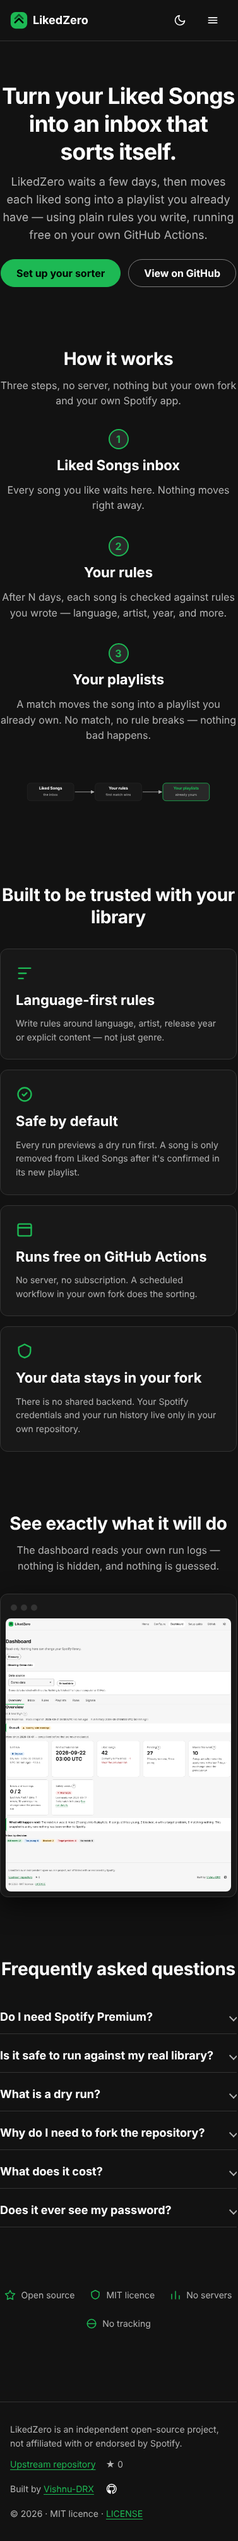
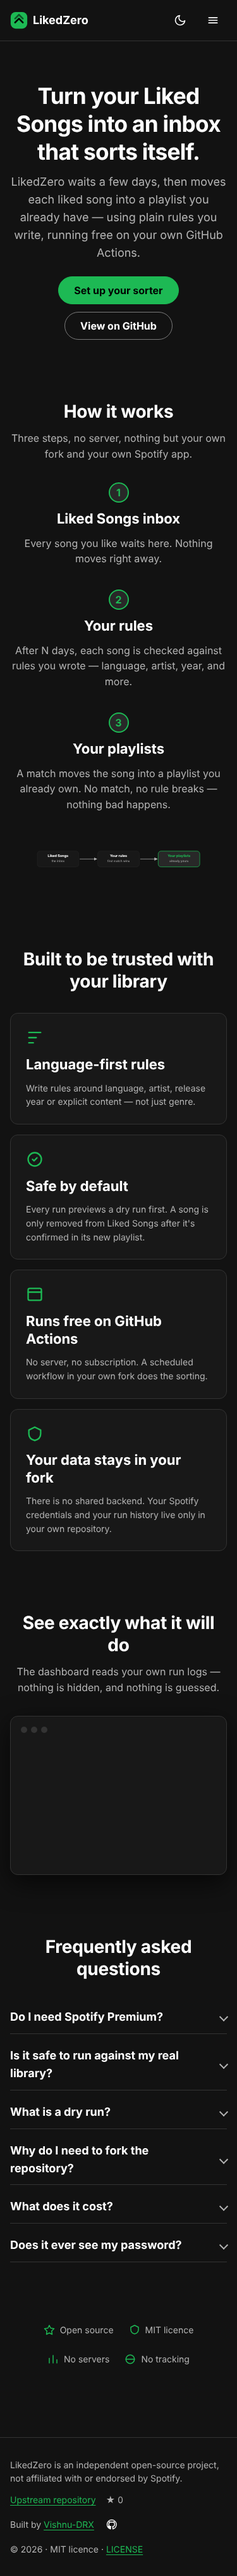
Fix cut-off Setup guide, cramped FAQ and dashboard on mobile (#7)
* Fix clipped Setup guide and edge-to-edge Home text on phones

Setup step cards grew to their code blocks' width (grid 1fr = min-content) and body overflow-x: clip hid the
overflow. .section/.hero padding shorthand zeroed the container's side gutters, so the FAQ touched the screen
edge. Use minmax(0, 1fr), wrap code on phones, pad block-only, and add an e2e check that measures real boxes.

Claude-Session: https://claude.ai/code/session_015FptCFJ6vCY2WqNvsxQPcr

* Fix dashboard on phones: side gutters, readable card rows, all six tabs visible

main.wrap's padding shorthand zeroed the side gutters, card-layout cells split multi-part values into narrow flex
columns, and the tab strip cut off the last tabs. Add an e2e check across every tab at 360/390/430 px.

Claude-Session: https://claude.ai/code/session_015FptCFJ6vCY2WqNvsxQPcr

* Give dashboard tabs more headroom at 360 px for wider fonts

CI's fallback font is wider than the local one, so the six tabs overflowed by 7 px at 360 px.

Claude-Session: https://claude.ai/code/session_015FptCFJ6vCY2WqNvsxQPcr

---------

diff --git a/docs/dashboard/dashboard.css b/docs/dashboard/dashboard.css
@@ -9,7 +9,7 @@
 
 /* ------------------------------------------------------------ page layout */
 .wrap { max-width: var(--content-max); margin: 0 auto; padding: 0 var(--space-4); }
-main.wrap { padding: var(--space-5) 0 var(--space-7); min-width: 0; }
+main.wrap { padding-block: var(--space-5) var(--space-7); min-width: 0; }
 body { overflow-wrap: anywhere; } /* narrow-screen safety: a long song/artist name must not force horizontal scroll */
 
 .page-title { padding: var(--space-5) 0 var(--space-2); }
@@ -101,18 +101,22 @@ tr.row-warn td:first-child { box-shadow: inset 4px 0 0 var(--color-warning); }
 .result-count { font-size: var(--text-sm); color: var(--color-text-secondary); margin: 0 0 var(--space-2); }
 
 @media (max-width: 47.99rem) {
+  /* all six tabs visible at phone width instead of a half-cut scrolling strip */
+  .tabs ul { gap: 0; }
+  .tabs a { flex: 1 1 auto; justify-content: center; padding: 0 var(--space-2); font-size: var(--text-sm); }
+  @media (max-width: 30rem) { .tabs a { padding: 0 6px; font-size: 0.8125rem; } }
+  @media (max-width: 24rem) { .tabs a { padding: 0 3px; font-size: 0.75rem; } }
   .stack thead { position: absolute; width: 1px; height: 1px; overflow: hidden; clip: rect(0 0 0 0); }
   .stack, .stack tbody, .stack tr, .stack td { display: block; width: 100%; }
   .stack tr { background: var(--color-surface); border: 1px solid var(--color-border); border-radius: var(--radius-lg); margin: 0 0 var(--space-3); padding: var(--space-2) var(--space-3); }
-  .stack td { display: flex; justify-content: space-between; gap: var(--space-4); border: 0; padding: var(--space-1) 0; text-align: right; }
-  .stack td::before { content: attr(data-label); flex: none; max-width: 45%; text-align: left; color: var(--color-text-secondary); font-weight: var(--weight-medium); }
-  .stack td.cell-main { display: block; text-align: left; font-size: var(--text-md); }
+  /* Label in a fixed left column, value (which may be several inline pieces: badge + text, code + note) flowing
+     in the right column. A flex row split such cells into narrow side-by-side fragments on phones. */
+  .stack td { position: relative; display: block; border: 0; padding: var(--space-1) 0 var(--space-1) 40%; text-align: left; min-height: 1.75rem; overflow-wrap: anywhere; }
+  .stack td::before { content: attr(data-label); position: absolute; left: 0; top: var(--space-1); width: 36%; color: var(--color-text-secondary); font-weight: var(--weight-medium); overflow-wrap: normal; hyphens: auto; }
+  .stack td.num { text-align: left; }
+  .stack td.cell-main { padding-left: 0; font-size: var(--text-md); }
   .stack td.cell-main::before { display: none; }
-  /* Let long values (badges, signal lists) wrap inside the card instead of pushing it past the screen edge;
-     wider fallback fonts (e.g. DejaVu Sans on Linux) otherwise overflow 375 px by a few pixels. */
-  .stack td > * { min-width: 0; overflow-wrap: anywhere; }
-  .stack td .badge { white-space: normal; }
-  .stack td.num { text-align: right; }
+  .stack td .badge { white-space: normal; max-width: 100%; }
   .stack tr.row-bad, .stack tr.row-warn { border-left-width: 4px; }
   .stack tr.row-bad { border-left-color: var(--color-danger); }
   .stack tr.row-warn { border-left-color: var(--color-warning); }

diff --git a/docs/assets/site.css b/docs/assets/site.css
@@ -42,14 +42,14 @@
 .site-footer-copy { margin: 0; }
 
 /* ------------------------------------------------------------ hero */
-.hero { padding: var(--space-8) 0 var(--space-7); text-align: center; }
+.hero { padding-block: var(--space-8) var(--space-7); text-align: center; }
 .hero-inner { max-width: 44rem; margin: 0 auto; }
 .hero h1 { font-size: clamp(2.2rem, 6vw, var(--text-3xl)); }
 .hero-sub { font-size: var(--text-lg); color: var(--color-text-secondary); margin: 0 0 var(--space-5); }
 .hero-cta { display: flex; flex-wrap: wrap; justify-content: center; gap: var(--space-3); }
 
 /* ------------------------------------------------------------ generic page sections */
-.section { padding: var(--space-7) 0; }
+.section { padding-block: var(--space-7); } /* block only: .section.container must keep its side gutters */
 .section-head { max-width: 40rem; margin: 0 auto var(--space-6); text-align: center; }
 .section-head p { color: var(--color-text-secondary); margin: 0; }
 
@@ -79,12 +79,13 @@
 
 /* setup guide */
 .setup-steps { display: flex; flex-direction: column; gap: var(--space-5); counter-reset: step; }
-.setup-step { display: grid; grid-template-columns: 40px 1fr; gap: var(--space-4); }
+.setup-step { display: grid; grid-template-columns: 40px minmax(0, 1fr); gap: var(--space-4); }
+.setup-step > .card { min-width: 0; }
 .setup-step-num { counter-increment: step; display: inline-grid; place-content: center; width: 40px; height: 40px; border-radius: 50%; background: var(--color-elevated); border: 2px solid var(--color-accent); color: var(--color-accent-text); font-weight: var(--weight-bold); }
 .setup-step-num::before { content: counter(step); }
 .setup-check { display: flex; gap: var(--space-2); align-items: flex-start; }
 .setup-check .icon { color: var(--color-accent-text); flex: none; margin-top: 2px; }
-@media (max-width: 560px) { .setup-step { grid-template-columns: 1fr; } .setup-step-num { display: none; } }
+@media (max-width: 560px) { .code pre { white-space: pre-wrap; overflow-wrap: anywhere; } .setup-step { grid-template-columns: minmax(0, 1fr); } .setup-step > .card { padding: var(--space-4); } .setup-step-num { display: none; } }
 
 /* 404 */
 .notfound { text-align: center; padding: var(--space-8) 0; }

diff --git a/tests/e2e/test_site.py b/tests/e2e/test_site.py
@@ -116,6 +116,33 @@ def test_page_loads_cleanly(site_page, site, page_name, path, width):
     assert not errors, f"{page_name}: {errors}"
 
 
+# `body { overflow-x: clip }` hides sideways overflow from scrollWidth, so the check above can pass while content is
+# cut off. Measure the actual boxes instead, at real phone widths.
+@pytest.mark.parametrize("page_name,path", [("home", "index.html"), ("setup", "setup/")])
+@pytest.mark.parametrize("width", [360, 390, 430])
+def test_mobile_content_not_clipped_and_has_gutters(site_page, site, page_name, path, width):
+    page, _ = site_page(width=width, height=900)
+    page.goto(site + path)
+    page.wait_for_load_state("networkidle")
+    page.evaluate("document.querySelectorAll('details').forEach(d => d.open = true)")
+    bad = page.evaluate("""() => {
+        const vw = document.documentElement.clientWidth, out = [];
+        document.querySelectorAll('main *').forEach(e => {
+            if (e.closest('svg') || getComputedStyle(e).position === 'fixed') return;
+            const r = e.getBoundingClientRect();
+            if (r.width && (r.right > vw + 1 || r.left < -1)) out.push(e.tagName + '.' + e.className + ' ' + Math.round(r.left) + '..' + Math.round(r.right));
+        });
+        return out;
+    }""")
+    assert not bad, f"{page_name} at {width}px: boxes outside the viewport: {bad[:5]}"
+    # prose must not touch the screen edge (FAQ answers / step cards keep a gutter)
+    edge = page.evaluate("""() => [...document.querySelectorAll('main p, main summary, main h1, main h2')]
+        .filter(e => e.getBoundingClientRect().width)
+        .map(e => Math.min(e.getBoundingClientRect().left, document.documentElement.clientWidth - e.getBoundingClientRect().right))
+        .reduce((m, v) => Math.min(m, v), 999)""")
+    assert edge >= 12, f"{page_name} at {width}px: text only {edge}px from the screen edge"
+
+
 def test_pages_load_across_available_browsers(available_browsers, site):
     def check(name, browser):
         ctx = browser.new_context(viewport={"width": 1280, "height": 900})

diff --git a/tests/e2e/test_dashboard.py b/tests/e2e/test_dashboard.py
@@ -1060,3 +1060,29 @@ def test_rules_view_shows_any_of_summary(dash):
     expect(row).to_be_visible()
     row_text = row.inner_text()
     assert "any_of" in row_text and "OR" in row_text
+
+
+# ------------------------------------------------------------------------------------------- phone widths: nothing clipped
+@pytest.mark.parametrize("width", [360, 390, 430])
+@pytest.mark.parametrize("view", ["overview", "inbox", "rules", "playlists", "runs", "signals"])
+def test_phone_width_nothing_clipped_and_tabs_fit(dash, width, view):
+    """`body { overflow-x: clip }` hides sideways overflow from scrollWidth, so measure the real boxes: every visible
+    element must sit inside the viewport, the page text must keep a side gutter, and all six tabs must be visible
+    without scrolling the tab strip."""
+    page = dash(view, width=width, height=900)
+    res = page.evaluate("""() => {
+        const vw = document.documentElement.clientWidth, out = [];
+        document.querySelectorAll('main *').forEach(e => {
+            if (e.closest('svg, thead, .sr-only')) return;
+            const r = e.getBoundingClientRect();
+            if (r.width > 1 && (r.right > vw + 1 || r.left < -1)) out.push(e.tagName + '.' + e.className + ' ' + Math.round(r.left) + '..' + Math.round(r.right));
+        });
+        const tabs = document.querySelector('#tabs');
+        const edge = Math.min(...[...document.querySelectorAll('main h1, main h2, main p')]
+            .filter(e => e.getBoundingClientRect().width)
+            .map(e => { const r = e.getBoundingClientRect(); return Math.min(r.left, vw - r.right); }));
+        return {out, edge, tabsScroll: tabs.scrollWidth - tabs.clientWidth};
+    }""")
+    assert not res["out"], f"{view} at {width}px: boxes outside the viewport: {res['out'][:5]}"
+    assert res["edge"] >= 12, f"{view} at {width}px: text only {res['edge']}px from the screen edge"
+    assert res["tabsScroll"] <= 0, f"{view} at {width}px: tab strip scrolls sideways by {res['tabsScroll']}px"

diff --git a/tests/e2e/conftest.py b/tests/e2e/conftest.py
@@ -150,7 +150,8 @@ def builder(make_page, site):
 def _launch_one(pw, name):
     """Try to launch one browser family, returning None (never raising) if it isn't available."""
     if name == "chromium":
-        for kwargs in ({}, {"channel": "msedge"}, {"channel": "chrome"}):
+        local = [{"executable_path": os.environ["LIKEDZERO_CHROMIUM"]}] if os.environ.get("LIKEDZERO_CHROMIUM") else []
+        for kwargs in (*local, {}, {"channel": "msedge"}, {"channel": "chrome"}):
             try:
                 return pw.chromium.launch(**kwargs)
             except Exception:  # noqa: BLE001
